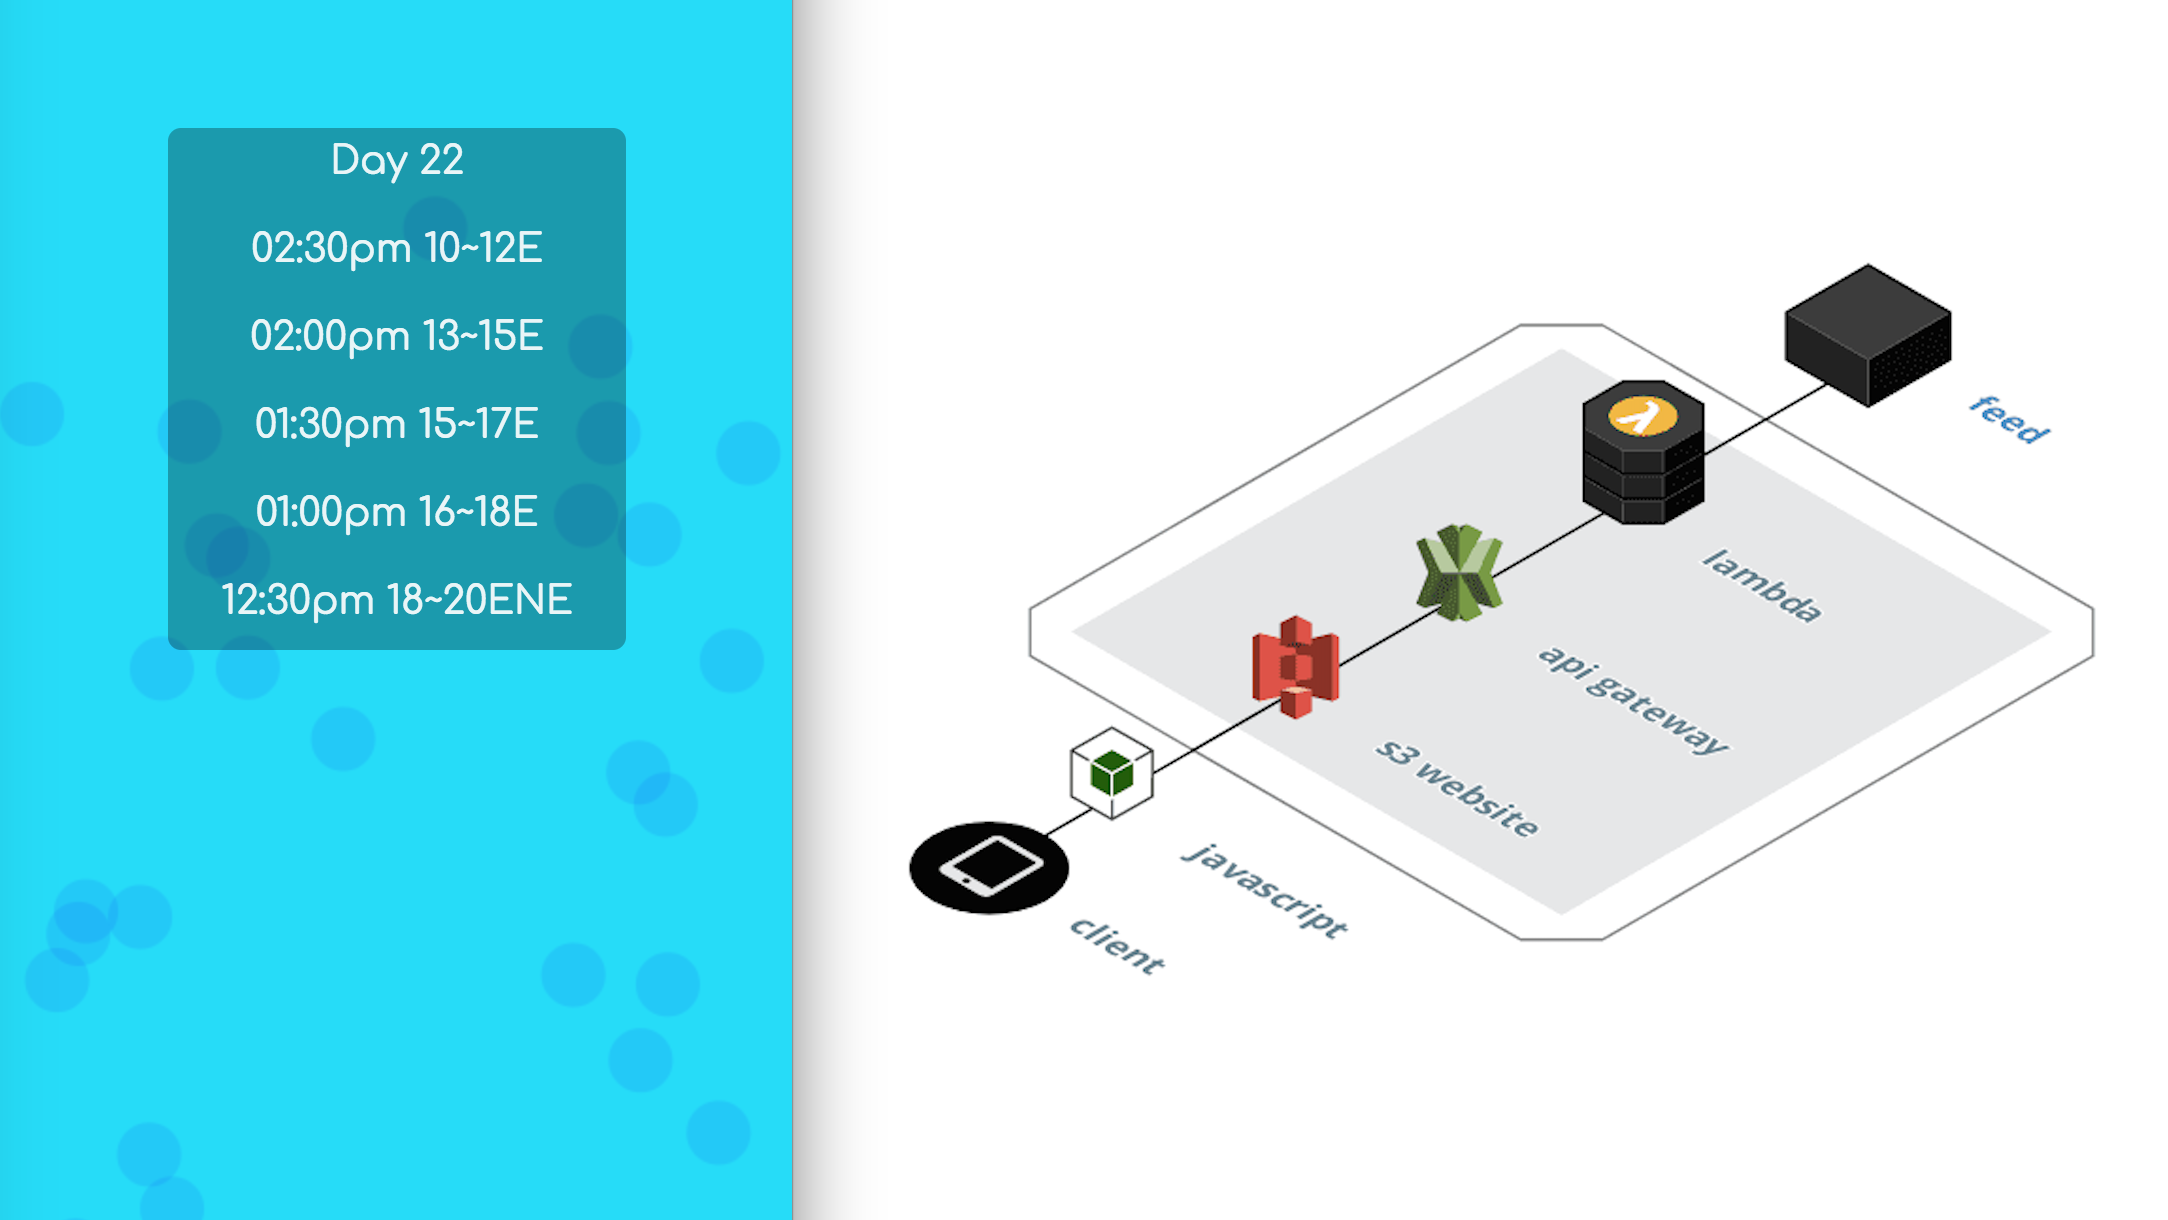
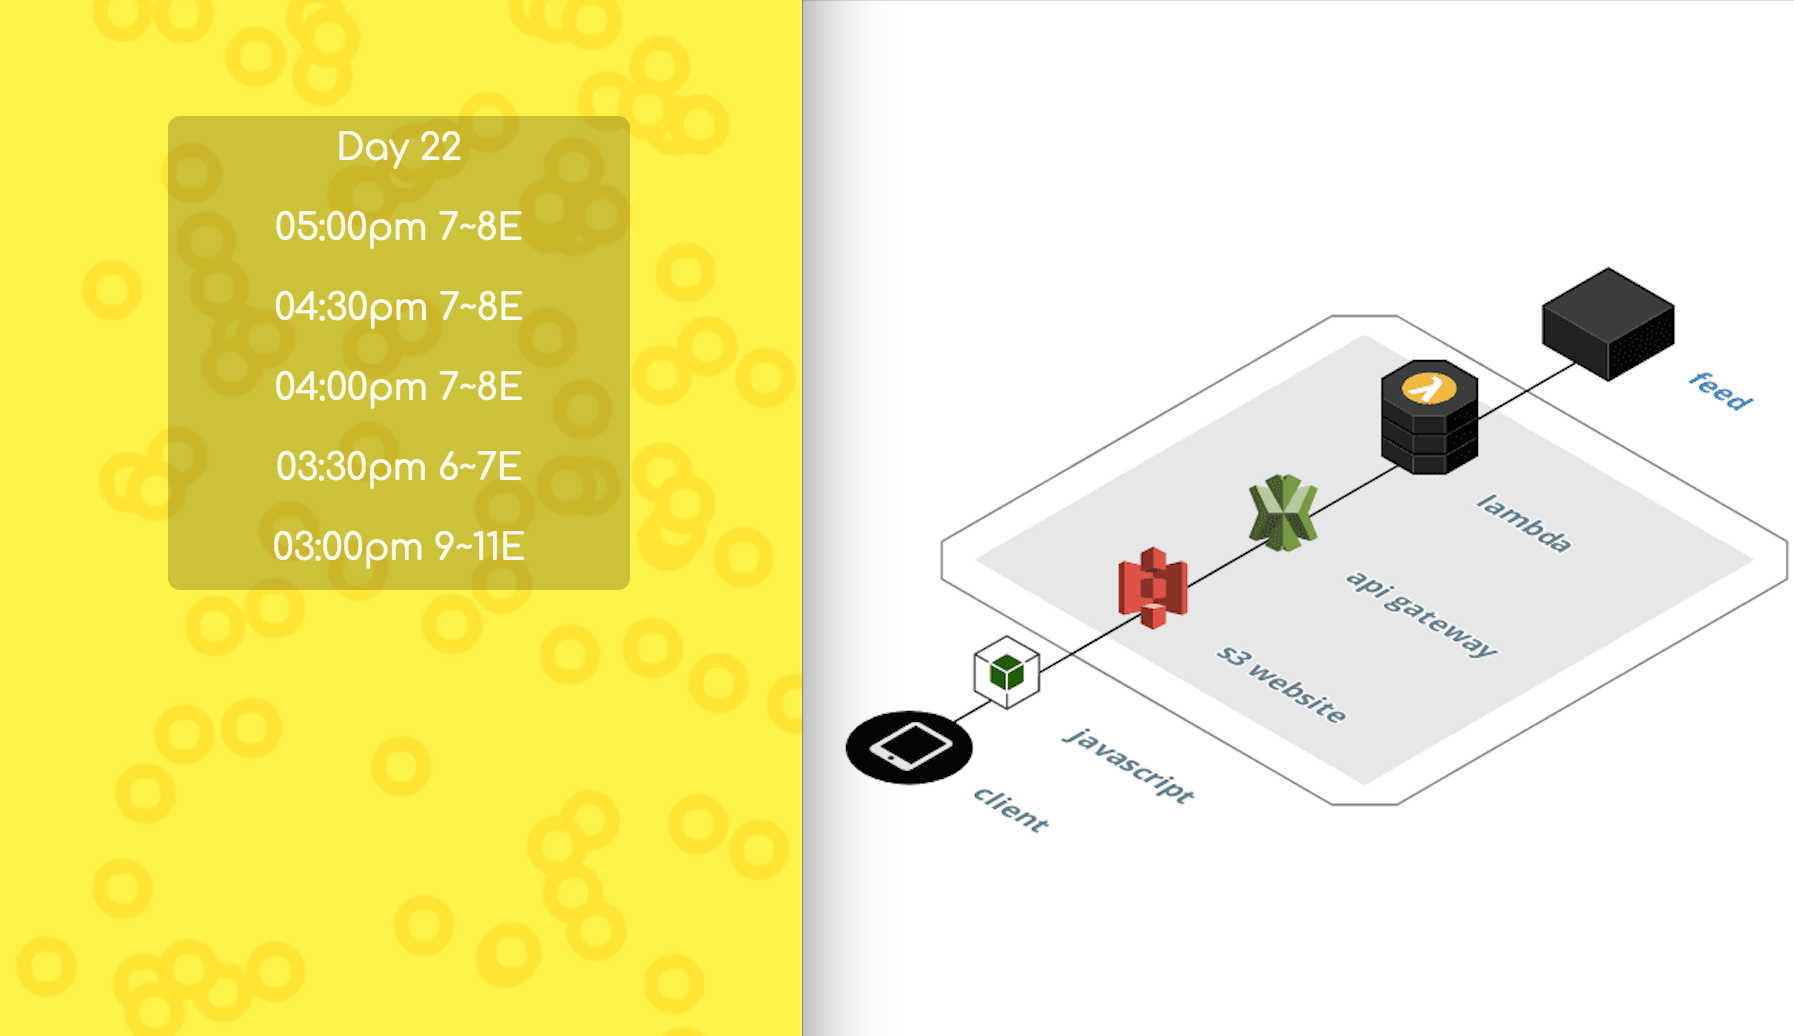
flying pineapple slices

diff --git a/kite.js b/kite.js
@@ -1,7 +1,7 @@
 var canvas,
 	context,
 	particles,
-	particleColor = "rgba(0, 0, 250,.1)",
+	particleColor = "rgba(255, 230, 0,1)",
 	particleDensity = 100,
 	motionBlur = true, //Motion blur effect on or off
 	particleSize = window.innerHeight/40,
@@ -114,6 +114,16 @@ function particle() {
 		context.arc(this.posX, this.posY, particleSize, Math.PI * 2, false);
 		context.fill();
 		context.closePath();
+
+
+		context.beginPath();
+		context.fillStyle = "rgba(255, 245, 50,1)";
+
+		context.arc(this.posX, this.posY, particleSize/2, Math.PI * 2, false);
+		context.fill();
+		context.closePath();
+
+
 
 		//context.fillRect(this.posX, this.posY, this.posX/2, this.posY/2);
 

diff --git a/index.html b/index.html
@@ -18,7 +18,7 @@ body{
   padding: 0;
   margin: 0;
   position: absolute;
-  background-color: rgba(0,220,250,1);
+  background-color: rgba(255, 245, 50,1)
 }
 
 
@@ -54,7 +54,7 @@ fieldset {
 
   -webkit-appearance: none;
   border-radius: 1vh;
-  background-color: rgba(0, 0, 0,.3);
+  background-color: rgba(0, 0, 0,.2);
   text-align: center;
   font-size: 3vh;
 }

diff --git a/readme.md b/readme.md
@@ -11,10 +11,10 @@ serverless kitesurfing windspeed app using javascript, HTML5/Canvas, api-gateway
 
 
 
-### TBA...
+##### See buildspec.yml
 
-1. deploy commands are in buildspec.yml
-2. update kite.js
+1. Use AWS CodeBuild or (manual) use deploy commands from inside.
+2. update kite.js like so...
 
 ```
 $.get({
